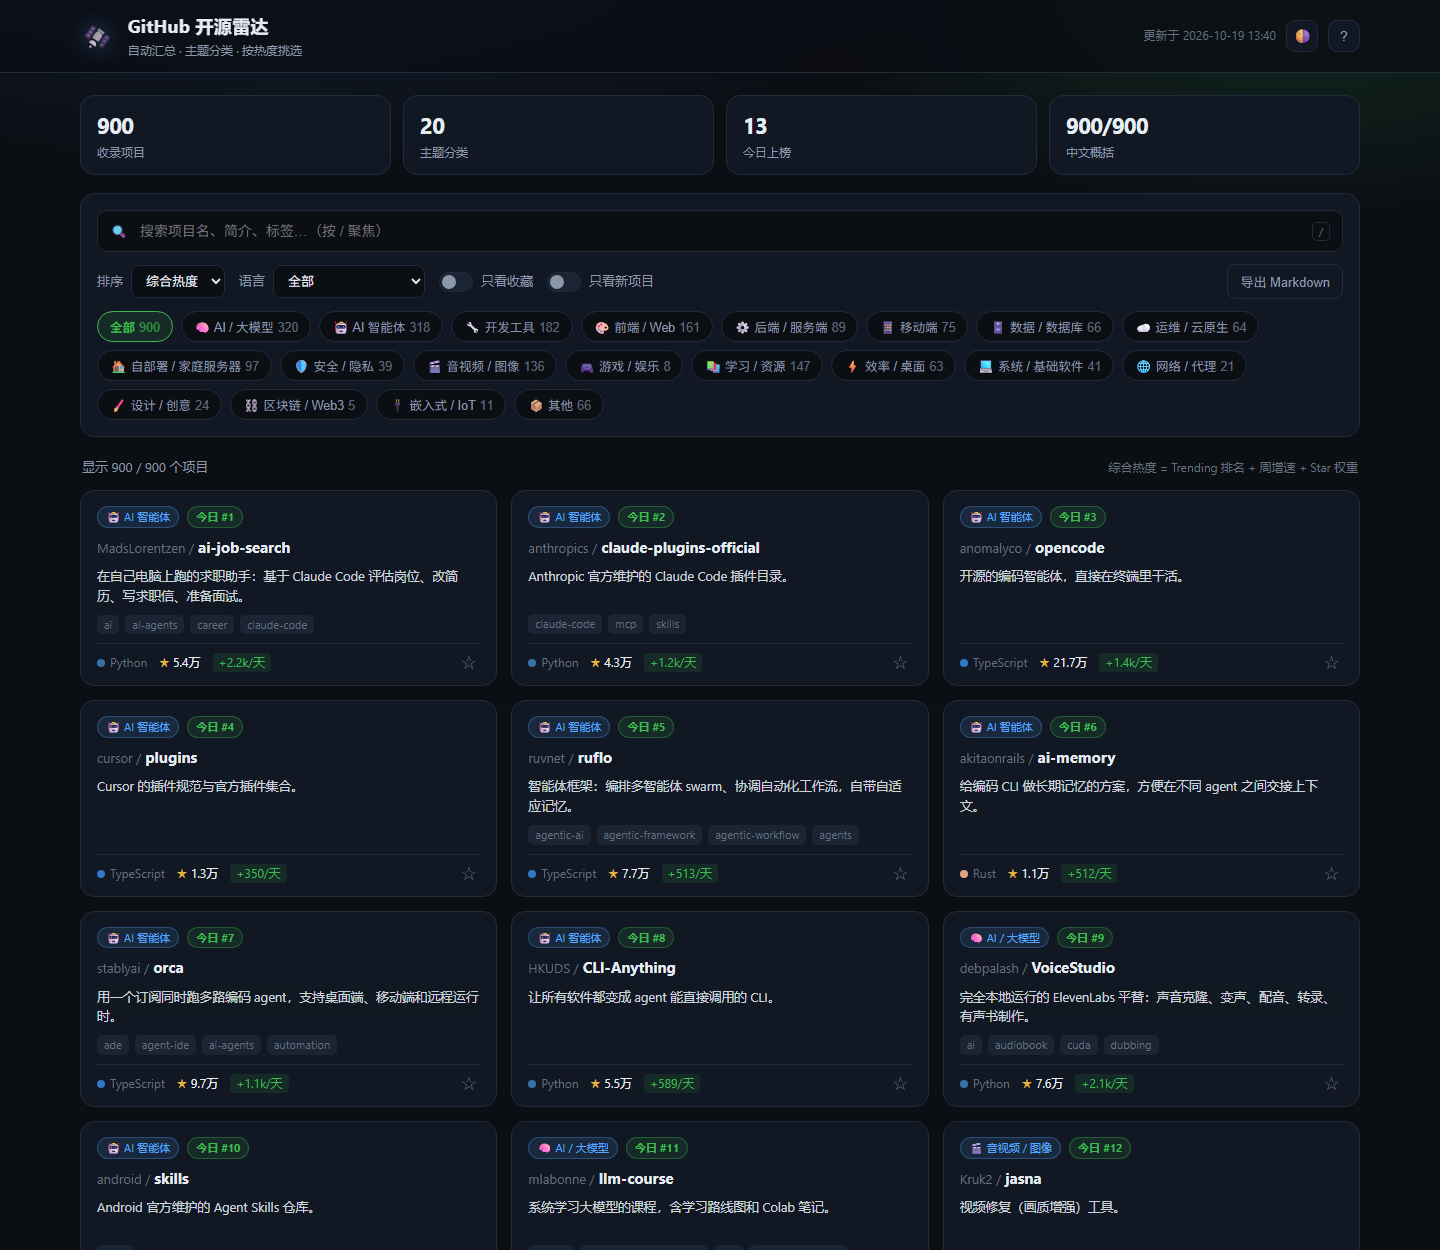
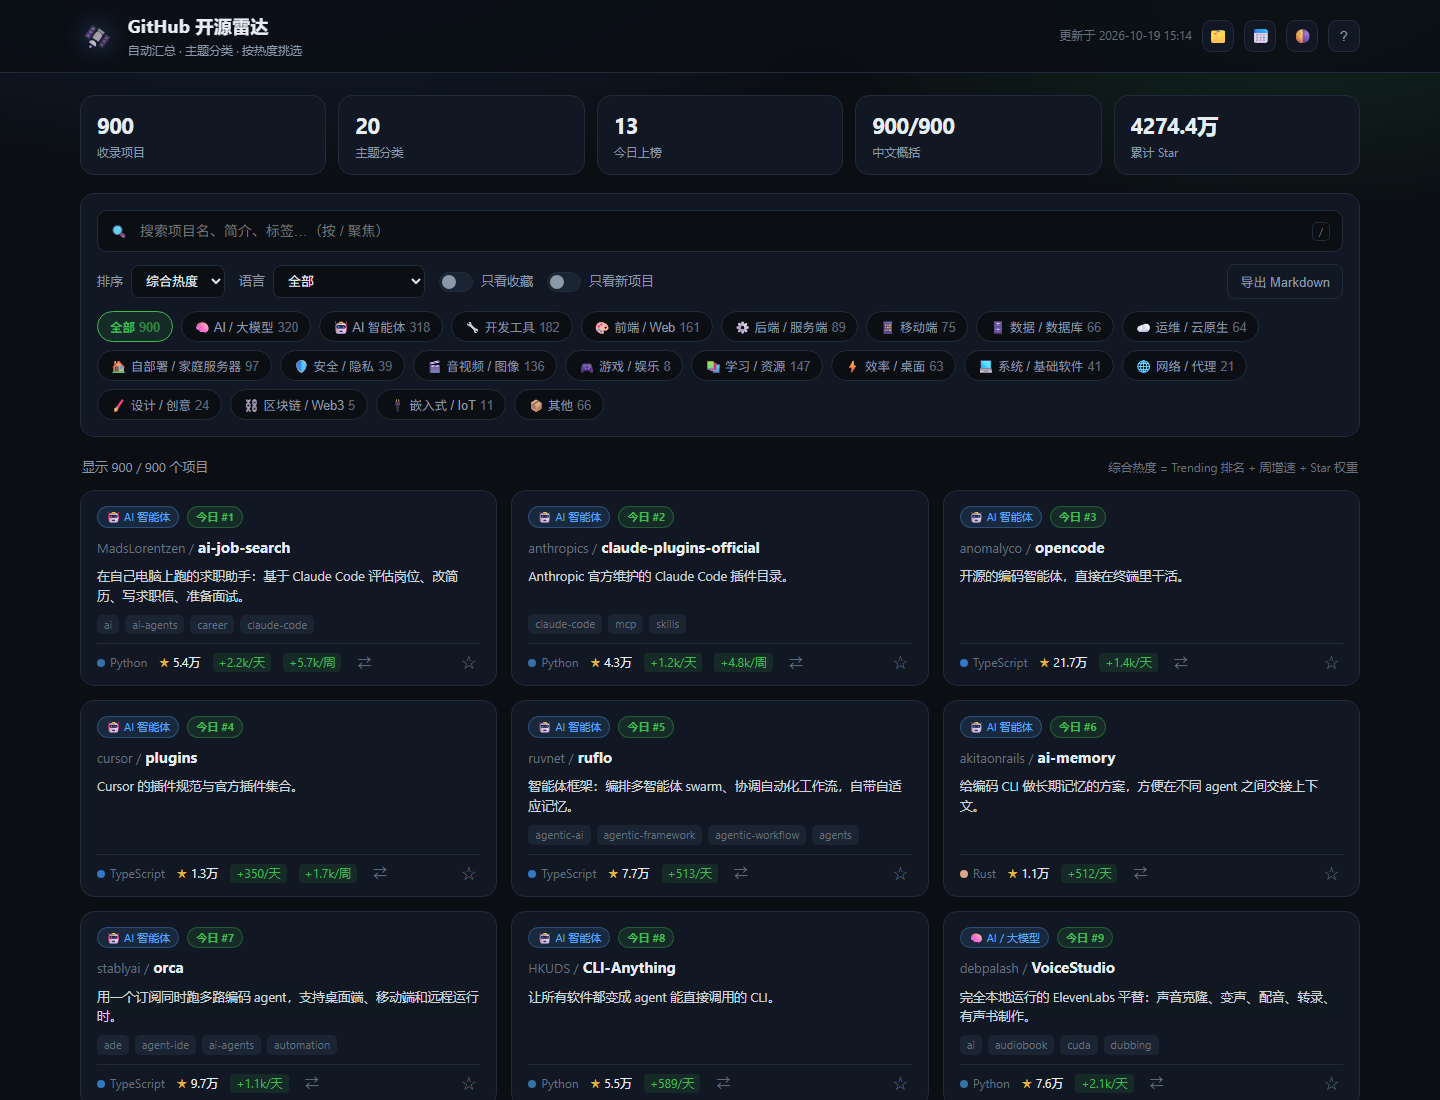
feat: 借鉴开源榜，新增项目对比、24h/7日增长、累计 Star 统计

diff --git a/assets/app.js b/assets/app.js
@@ -175,11 +175,20 @@
     stars.title = `${p.stars.toLocaleString()} star`;
     foot.append(stars);
 
-    const growVal = p.delta7d ?? p.trendingDailyStars;
-    if (growVal) {
-      const label = p.delta7d != null ? `+${fmtNum(p.delta7d)}/周` : `+${fmtNum(p.trendingDailyStars)}/天`;
-      foot.append(el('span', 'grow', label));
-    }
+    const d1 = p.trendingDailyStars || p.delta1d;
+    const d7 = p.delta7d || p.trendingWeeklyStars;
+    if (d1) foot.append(el('span', 'grow', `+${fmtNum(d1)}/天`));
+    if (d7) foot.append(el('span', 'grow', `+${fmtNum(d7)}/周`));
+
+    const cmp = el('button', 'cmp-btn' + (compareSet.has(p.fullName) ? ' on' : ''), compareSet.has(p.fullName) ? '✓' : '⇄');
+    cmp.dataset.repo = p.fullName;
+    cmp.title = '加入对比（最多 3 个）';
+    cmp.setAttribute('aria-label', '加入对比');
+    cmp.addEventListener('click', (e) => {
+      e.stopPropagation();
+      toggleCompare(p.fullName);
+    });
+    foot.append(cmp);
 
     const fav = el('button', 'fav-btn' + (favs.has(p.fullName) ? ' on' : ''), favs.has(p.fullName) ? '★' : '☆');
     fav.title = '收藏 / 取消收藏';
@@ -275,6 +284,8 @@
     $('statTrending').textContent = String(PROJECTS.filter((p) => p.trendingRank).length);
     const zh = PROJECTS.filter((p) => p.descZh).length;
     $('statZh').textContent = `${zh}/${PROJECTS.length}`;
+    const totalStars = PROJECTS.reduce((sum, p) => sum + (p.stars || 0), 0);
+    $('statStars').textContent = fmtNum(totalStars);
 
     $('metaLine').textContent = meta.generatedAt
       ? `更新于 ${fmtTime(meta.generatedAt)}`
@@ -359,6 +370,104 @@
 
   dialog.addEventListener('click', (e) => {
     if (e.target === dialog) dialog.close();
+  });
+
+  /* ---------------- 项目对比 ---------------- */
+  const compareSet = new Set();
+  const compareBar = $('compareBar');
+  const compareChips = $('compareChips');
+  const compareCount = $('compareCount');
+  const compareGo = $('compareGo');
+  const compareClear = $('compareClear');
+  const compareDialog = $('compareDialog');
+  const compareBody = $('compareBody');
+  const byRepo = new Map(PROJECTS.map((p) => [p.fullName, p]));
+
+  function refreshCompareBar() {
+    compareCount.textContent = String(compareSet.size);
+    compareGo.disabled = compareSet.size < 2;
+    compareBar.hidden = compareSet.size === 0;
+    const frag = document.createDocumentFragment();
+    for (const repo of compareSet) {
+      const chip = el('span', 'compare-chip', repo);
+      const x = el('button', null, '×');
+      x.title = '移出对比';
+      x.addEventListener('click', () => toggleCompare(repo));
+      chip.append(x);
+      frag.append(chip);
+    }
+    compareChips.replaceChildren(frag);
+    document.querySelectorAll('.card .cmp-btn').forEach((btn) => {
+      const on = compareSet.has(btn.dataset.repo);
+      btn.classList.toggle('on', on);
+      btn.textContent = on ? '✓' : '⇄';
+    });
+  }
+
+  function toggleCompare(repo) {
+    if (compareSet.has(repo)) compareSet.delete(repo);
+    else if (compareSet.size >= 3) {
+      toast('最多同时对比 3 个项目');
+      return;
+    } else compareSet.add(repo);
+    refreshCompareBar();
+  }
+
+  function openCompare() {
+    const list = [...compareSet].map((r) => byRepo.get(r)).filter(Boolean);
+    if (list.length < 2) return;
+
+    const head = el('div');
+    head.append(el('h2', null, '项目对比'));
+    head.append(el('p', 'repo-path', `并排对比 ${list.length} 个项目：Star、Fork、语言、协议、时间、分类`));
+
+    const table = el('table', 'cmp-table');
+    const thead = el('thead');
+    const headRow = el('tr');
+    headRow.append(el('th', null, ''));
+    for (const p of list) {
+      const th = el('th');
+      const link = el('a', null, p.fullName);
+      link.href = p.url;
+      link.target = '_blank';
+      link.rel = 'noopener noreferrer';
+      th.append(link);
+      headRow.append(th);
+    }
+    thead.append(headRow);
+    table.append(thead);
+
+    const tbody = el('tbody');
+    const rows = [
+      ['中文概括', (p) => p.descZh || p.desc || '—', 'cmp-zh'],
+      ['Star', (p) => p.stars.toLocaleString()],
+      ['Fork', (p) => p.forks.toLocaleString()],
+      ['语言', (p) => p.language || '—'],
+      ['协议', (p) => p.license || '—'],
+      ['创建于', (p) => fmtDate(p.createdAt)],
+      ['最近推送', (p) => fmtDate(p.pushedAt)],
+      ['分类', (p) => (p.categories || []).map((c) => CAT_MAP.get(c)?.name).filter(Boolean).join(' / ') || '—'],
+      ['今日新增 Star', (p) => (p.trendingDailyStars ? '+' + p.trendingDailyStars.toLocaleString() : '—')],
+      ['周涨幅', (p) => (p.delta7d != null ? '+' + p.delta7d.toLocaleString() : '—')],
+    ];
+    for (const [label, get, cls] of rows) {
+      const tr = el('tr');
+      tr.append(el('th', null, label));
+      for (const p of list) tr.append(el('td', cls || null, get(p)));
+      tbody.append(tr);
+    }
+    table.append(tbody);
+    compareBody.replaceChildren(head, table);
+    compareDialog.showModal();
+  }
+
+  compareGo.addEventListener('click', openCompare);
+  compareClear.addEventListener('click', () => {
+    compareSet.clear();
+    refreshCompareBar();
+  });
+  compareDialog.addEventListener('click', (e) => {
+    if (e.target === compareDialog) compareDialog.close();
   });
 
   /* ---------------- 往期回顾（每天 Top 80 归档） ---------------- */
@@ -451,6 +560,7 @@
       ['🔥 综合热度', '优先展示 GitHub Trending 当日上榜项目，再叠加周增速和总 Star。'],
       ['📈 涨幅', '「+3.2k/周」需要至少两次采集后才有；首日只有 Trending 的当日涨幅。'],
       ['⭐ 收藏', '点卡片右下角星标，数据存在本机浏览器，下次打开还在。'],
+      ['⚖ 项目对比', '点卡片上的 ⇄ 最多选 3 个项目，底部出现「开始对比」，可以并排比 Star、语言、协议和时间。'],
       ['📅 往期回顾', '点右上角日历图标，可以翻看以前每天的热门前 80 条——历史是本站自己归档的，不依赖外部。'],
       ['📋 导出', '把当前筛选结果复制成 Markdown 列表，直接贴到聊天或笔记里分享。'],
     ];
@@ -540,7 +650,7 @@
       searchInput.focus();
       searchInput.select();
     } else if (e.key === 'Escape') {
-      if (dialog.open || historyDialog.open) return;
+      if (dialog.open || historyDialog.open || compareDialog.open) return;
       if (document.activeElement === searchInput) {
         searchInput.value = '';
         state.q = '';

diff --git a/assets/style.css b/assets/style.css
@@ -114,7 +114,7 @@ body {
 /* ---------- 统计 ---------- */
 .stats {
   display: grid;
-  grid-template-columns: repeat(4, 1fr);
+  grid-template-columns: repeat(5, 1fr);
   gap: 12px;
   margin: 22px 0 18px;
 }
@@ -420,6 +420,88 @@ body {
 
 .fav-btn:hover { color: #e3b341; background: var(--chip-bg); }
 .fav-btn.on { color: #e3b341; }
+
+.cmp-btn {
+  border: 0;
+  background: transparent;
+  color: var(--faint);
+  font-size: 14px;
+  cursor: pointer;
+  padding: 2px 4px;
+  border-radius: 6px;
+  line-height: 1;
+  transition: 0.15s;
+}
+
+.cmp-btn:hover { color: var(--blue); background: var(--chip-bg); }
+.cmp-btn.on { color: var(--blue); }
+
+/* ---------- 项目对比 ---------- */
+.compare-bar {
+  position: fixed;
+  left: 50%;
+  bottom: 18px;
+  transform: translateX(-50%);
+  display: flex;
+  align-items: center;
+  gap: 12px;
+  max-width: calc(100vw - 32px);
+  background: var(--card);
+  border: 1px solid var(--border-strong);
+  border-radius: 14px;
+  padding: 10px 14px;
+  box-shadow: var(--shadow);
+  z-index: 80;
+}
+
+.compare-bar[hidden] { display: none; }
+.compare-tip { color: var(--muted); font-size: 12px; white-space: nowrap; }
+.compare-tip b { color: var(--text); }
+
+.compare-chips { display: flex; gap: 6px; flex-wrap: wrap; max-width: 520px; }
+
+.compare-chip {
+  display: inline-flex;
+  align-items: center;
+  gap: 6px;
+  font-size: 12px;
+  color: var(--text);
+  background: var(--chip-bg);
+  border: 1px solid var(--border);
+  border-radius: 999px;
+  padding: 3px 9px;
+  max-width: 180px;
+  overflow: hidden;
+  text-overflow: ellipsis;
+  white-space: nowrap;
+}
+
+.compare-chip button {
+  border: 0;
+  background: transparent;
+  color: var(--faint);
+  cursor: pointer;
+  font-size: 13px;
+  line-height: 1;
+  padding: 0;
+}
+
+.compare-chip button:hover { color: #f85149; }
+
+.cmp-table { width: 100%; border-collapse: collapse; font-size: 13px; }
+.cmp-table th, .cmp-table td { padding: 9px 10px; border-bottom: 1px solid var(--border); text-align: left; vertical-align: top; }
+.cmp-table th { color: var(--faint); font-weight: 500; white-space: nowrap; width: 90px; }
+.cmp-table thead th { color: var(--text); font-weight: 650; font-size: 13.5px; }
+.cmp-table thead th a { color: var(--text); text-decoration: none; }
+.cmp-table thead th a:hover { color: var(--blue); }
+.cmp-table td { color: var(--muted); }
+.cmp-table tbody tr:hover { background: var(--card-hover); }
+.cmp-table .cmp-zh { color: var(--text); }
+
+@media (max-width: 820px) {
+  .compare-bar { flex-wrap: wrap; justify-content: center; }
+  .compare-chips { max-width: 100%; }
+}
 
 /* ---------- 空状态 / 页脚 ---------- */
 .empty { text-align: center; padding: 60px 20px; color: var(--muted); }

diff --git a/index.html b/index.html
@@ -35,6 +35,7 @@
     <div class="stat"><b id="statCats">-</b><span>主题分类</span></div>
     <div class="stat"><b id="statTrending">-</b><span>今日上榜</span></div>
     <div class="stat"><b id="statZh">-</b><span>中文概括</span></div>
+    <div class="stat"><b id="statStars">-</b><span>累计 Star</span></div>
   </section>
 
   <section class="toolbar" aria-label="筛选">
@@ -118,6 +119,17 @@
 </dialog>
 
 <div id="toast" class="toast" role="status" aria-live="polite"></div>
+
+<div id="compareBar" class="compare-bar" hidden>
+  <span class="compare-tip">对比 <b id="compareCount">0</b> / 3</span>
+  <div id="compareChips" class="compare-chips"></div>
+  <button class="btn primary" id="compareGo" disabled>开始对比</button>
+  <button class="btn" id="compareClear">清空</button>
+</div>
+
+<dialog id="compareDialog" class="dialog">
+  <div class="dialog-body" id="compareBody"></div>
+</dialog>
 
 <script src="data/latest.js"></script>
 <script src="data/archive/index.js"></script>
